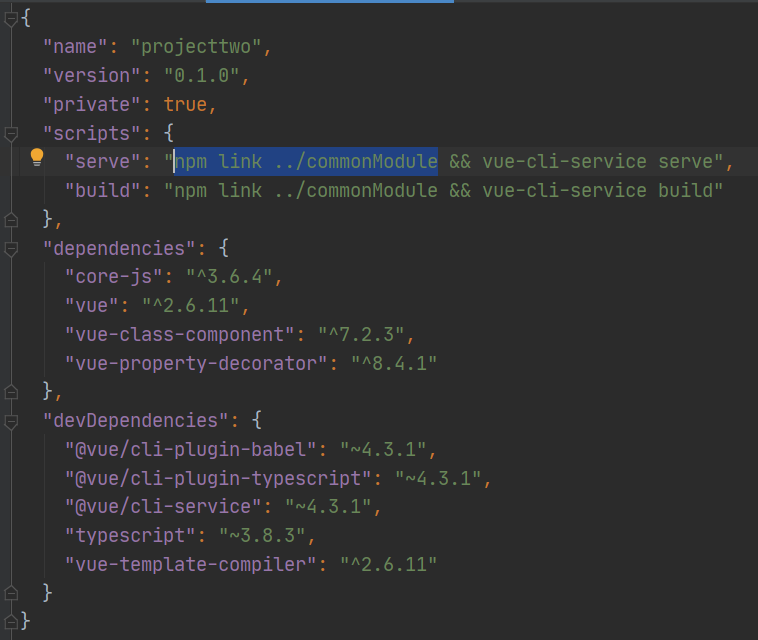
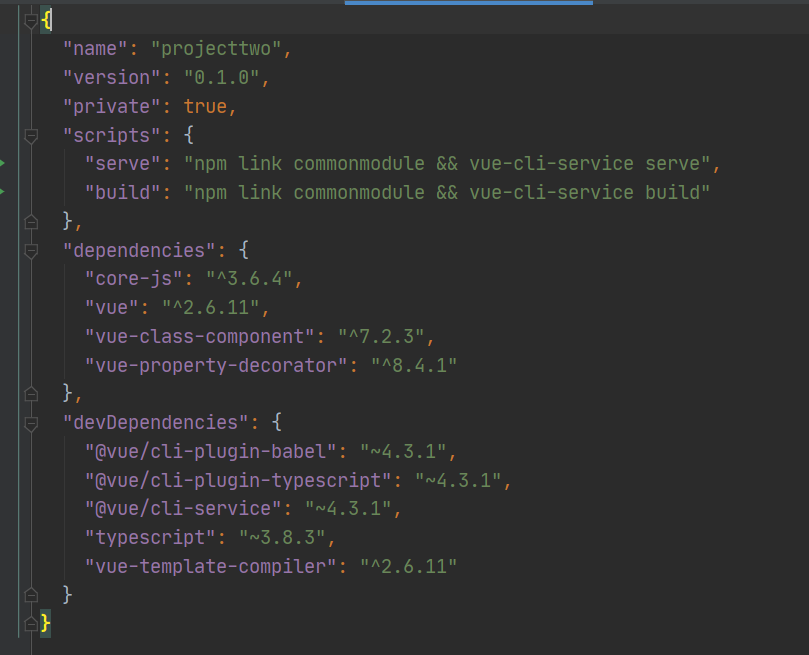
update document

diff --git a/docs/content/其他工具/npmLink/npm_link.md b/docs/content/其他工具/npmLink/npm_link.md
@@ -11,8 +11,10 @@
 
 
 
-> + commonModule
-在`commonModule`下运行`npm init`命令，这会在`commonModule`下生成`package.json`文件。  
+> + commonModule  
+
+在`commonModule`下运行`npm init`命令，这会在`commonModule`下生成`package.json`文件  
+还会创建一个符号链接（symlink），这个链接指向 npm link 命令执行的地方  
  
 ![img](./161136.png)
 
@@ -35,9 +37,10 @@ export * from "./tool/methods";
 
 > + projectTwo
 
-在项目脚本里加入npm link 路径，node_modules下会生成一个包  
+在项目目录下运行npm link packageName，packageName可以换成路径（index.js可以省略）  
 需要注意的的是，`packageName`是取自包的公共模块的`package.json`中`name`字段，不是文件夹名称  
-**import的时候要注意**
+
+为了方便，可以加到项目脚本里  
   
 ![img](./161816.png)
 
@@ -64,5 +67,31 @@ export * from "./tool/methods";
 ````
 
 
+================================
+
+
+> + 第一步  
+
+在一个包文件夹内执行 npm link 将在全局文件 {prefix}/lib/node_modules/<package> 内，创建一个符号链接（symlink），这个链接指向 npm link 命令执行的地方。  
+
+> + 第二步 
+ 
+到其它目录下，执行 npm link packageName 命令，将会创建一个从全局安装的 packageName 到当前文件内的 node_modules 下的符号链接。  
+需要注意的的是， packageName 是取自包的 package.json 中 name 字段，不是文件夹名称。  
+包的名称可能有作用域前缀，如果有， packageName 也要对应加上。  
+  
+  
+> + 解除 link
+
+到**项目**下执行下面的命令：
+````
+npm unlink --no-save package && npm install
+````
+npm uninstall 文档中可以发现，unlink 其实是 uninstall 的别名，实质上也是删除了包。  
+
+包不需要的 link 的时候，建议也解除，到**包目录**下执行下面的命令：  
+````
+npm unlink  
+````
 
   
